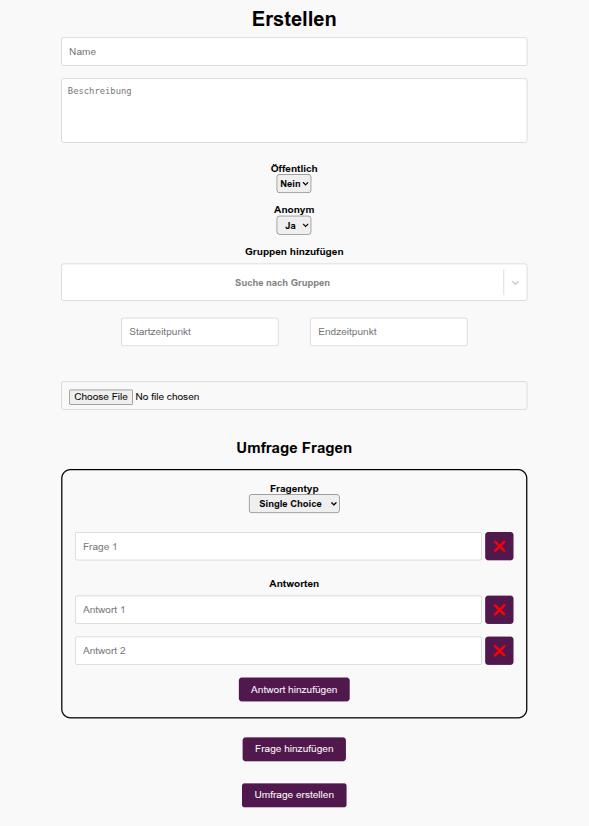
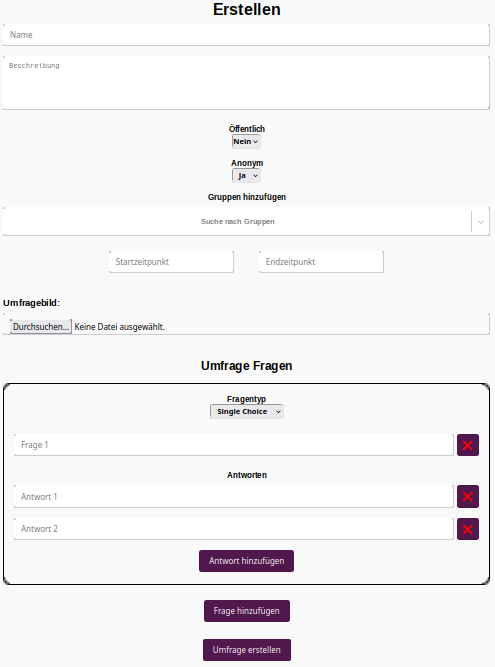
finished rework

diff --git a/latex/main.tex b/latex/main.tex
@@ -892,14 +892,14 @@ Using Sequelize’s transaction mechanism not only helps to avoid data inconsist
 
 \section{Accessibility}
 \subsection{Tooltips}
-To enhance the usability and user experience of the application, tooltips were integrated into all input fields, providing users with contextual guidance and reducing the likelihood of input errors. For this purpose, the React library "react-tooltips" was utilized, offering a high degree of customizability in both design and behavior. This allowed for the implementation of consistent and informative tooltip elements throughout the interface. \parencite{tooltips} \\ \\
-Each from element is assigned a unique \textit{data-tool-id}, which serves as a reference key within the central \texttt{Tooltips.js} configuration file. This file defines the content, styling, and interaction logic for each tooltip, ensuring that the visual presentation and timing behavior are consistent across the application. To prevent the tooltips from becoming distracting during regular use, a delay of 1500 milliseconds was introduced before displaying the tooltip on hover.\\ \\
+To enhance the usability and user experience of the application, tooltips were attached to all input fields, providing users with contextual guidance and reducing the likelihood of input errors. For this purpose, the React library "react-tooltips" was utilized, offering a high degree of customizability in both design and behavior. This allowed for the implementation of consistent and informative tooltip elements throughout the interface. \parencite{tooltips} \\ \\
+Each element is assigned a unique \textit{data-tool-id}, which serves as a reference key within the central \texttt{Tooltips.js} configuration file. This file defines the content, styling, and interaction logic for each tooltip, ensuring that the visual presentation and timing behavior are consistent across the application. To prevent the tooltips from becoming distracting during regular use, a delay of 1500 milliseconds was introduced before displaying the tooltip on hover.\\ \\
 The overall purpose of this component was, to improve the intuitiveness of the application, especially for first-time users or those unfamiliar with specific input requirements. \\ \\
 \section{Styling}
 \subsection{General styling}
-At the beginning of the development process, a rough design was implemented to help visualize the overall concept of the future application. In order to maintain a clean and organized project structure, general styling files such as \texttt{App.css}, \texttt{dashboard.css}, \texttt{voting.css}, and others were placed within a dedicated styles directory.\\\\
+At the beginning of the development process, a rough design was implemented to help visualize the overall concept of the future application. In order to maintain a clean and organized project structure, general styling files such as \texttt{App.css}, capitalized to match the App component, \texttt{dashboard.css}, \texttt{voting.css}, and others were placed within a dedicated styles directory.\\\\
 The official styling of the application was done later in the making process, because only then it was demanded by the customers. The same applies to the color scheme which has two main colors: "Yellow" and "Blackberry". In addition to the existing project structure, custom components such as the header with navigation and the footer were introduced, each of which can be individually styled. These were integrated to establish a layout that conforms to standard design practices.\\\\
-To ensure consistency of the palette user defined characteristics from CSS where used to assign variables for each main color. \parencite{csscolorvariables}
+To ensure consistency of the palette, user defined characteristics from CSS were used to assign variables for each main color. \parencite{csscolorvariables}
 \begin{figure}[h!]
 	\begin{csscode}
 		:root {
@@ -911,11 +911,11 @@ To ensure consistency of the palette user defined characteristics from CSS where
 	\caption{Variables of the main colors}
 	\label{fig:user_defined_characteristics}
 \end{figure}
-Those variables where then used in each element of where it was needed. Therefore changing the color scheme to a different one is less afford for the end user. \\ \\
-The basic structure of the page is split into three sections: header with navigation, main with content and footer with imprint and privacy policy. The style is based on the client's homepage therefore the standard background is purple but the contents background it still is white to ensure readability. \parencite{lmppage} \\
+Those variables were then used in the appropriate element. Therefore changing the color scheme to a different one is less afford for the developers or maintainers. \\ \\
+The basic structure of the page is split into three sections: header with navigation, main with content and footer with imprint and privacy policy. The default style is based on the client's corporate design. Therefore, the standard background is purple but the content background is still white to ensure readability. \parencite{lmppage} \\
 \subsection{Responsive design}
 Responsive design is essential nowadays because users access websites from a wide variety of devices - phones, tablets, laptops and desktops - each with different screen sizes and resolutions. It ensures a seamless, user-friendly experience across all platforms, which improve engagement and accessibility.\\ \\
-To ensure responsiveness in each section of the application, \textbf{@media CSS at-rule} was used to apply different styles based on the screen size or device characteristics. This approach allows the layout, font sizes and element spacing to adapt dynamically, creating a smoother experience for users on any device. The navigation bar was designed with media queries to transform into so-called "burger menu" when the screen width falls below a certain threshold. This ensures usability on smaller devices like smartphones because the elements within the navigation get displayed in the menu now.
+To ensure responsiveness in each section of the application, \textbf{@media CSS at-rule} was used to apply different styles based on the screen size or device characteristics. This approach allows the layout, font sizes and element spacing to adapt dynamically, creating a smoother experience for users on any device. The navigation bar was designed with media queries to transform into so-called "burger menu" when the screen width falls below a certain threshold. This ensures usability on smaller screens.
 \begin{figure}[h!]
 	\centering
 	\includegraphics[width=1\textwidth]{pics/navigation.png}
@@ -923,7 +923,7 @@ To ensure responsiveness in each section of the application, \textbf{@media CSS 
 	\label{fig:navigation}
 \end{figure}
 \subsection{Individual styling}
-Some areas of the web application required additional styling efforts beyond the general layout to enhance usability, visual clarity and the overall aesthetic appearance. These areas were identified based on both internal testing and feedback from the client and were adapted to meet specific functional and visual needs.
+Some areas of the web application required additional styling efforts beyond the general layout to enhance usability, visual clarity and the overall aesthetic appearance. These areas were identified based on both internal testing and feedback from the client and were customized to meet specific functional and visual needs.
 \paragraph{The Register Page} is a dedicated interface accessible exclusively to administrators. As seen in Figure \ref{fig:register_view}, the registration form is designed for clarity and ease of use. It features all necessary input fields to create a new user, alongside a dropdown for role selection. The description of the role is dynamically shown directly below depending on the selection, providing transparency about the permissions and purpose of each role. Styling is handled in a separate \texttt{register.css} stylesheet for modularity and maintainability.\\\\ 
 \begin{figure}[H]
 	\centering
@@ -940,6 +940,7 @@ The second section is dedicated to composing the poll questions. Each question b
 	\caption{Poll creation form}
 	\label{fig:create_view}
 \end{figure}
+
 \paragraph{Voting} is the section where users can submit their votes on polls they have permission to participate in. As shown in Figure \ref{fig:voting_view}, the selected poll's name is displayed below the section's heading and the poll selection dropdown, highlighted using the site's primary color. Each question is presented in a separate block, labeled with the question type in the top right corner. Within each block, the question title is emphasized and all answer options are listed along with radio boxes for \texttt{Single Choice} and \texttt{Weighted Choice} questions, and check boxes for \texttt{Multiple Choice} questions. \texttt{Weighted Choice} questions also include an importance scale, which consists of multiple buttons that users must interact with to assign an importance value to their answer.
 \begin{figure}[H]
 	\centering
@@ -955,7 +956,7 @@ The second section is dedicated to composing the poll questions. Each question b
 	\caption{Results view}
 	\label{fig:results_view}
 \end{figure}
-\paragraph{The Pollimage} enables users to create surveys with a title picture. It was styled to maintain visual harmony and responsiveness across Create, Voting, and Results views. The image container uses a flexbox layout to center the image horizontally, ensuring it looks balanced on all screen sizes. The image itself is limited to a maximum width of 90 percent of its container and a maximum height of 300 pixel to prevent oversized images from disrupting the layout. To preserve the original aspect ratio and avoid distortion, the \textit{object-fit: contain} property is applied. \parencite{cssobjectfit} \\ \\
+\paragraph{The Poll Image} enables users to create surveys with a title picture. It was styled to maintain visual harmony and responsiveness across Create, Voting, and Results views. The image container uses a flexbox layout to center the image horizontally, ensuring it looks balanced on all screen sizes. The image itself is limited to a maximum width of 90 percent of its container and a maximum height of 300 pixel to prevent oversized images from disrupting the layout. To preserve the original aspect ratio and avoid distortion, the \textit{object-fit: contain} property is applied. \parencite{cssobjectfit} \\ \\
 
 \section{Deployment}
 This project was deployed to test how it behaves in a live environment and to ensure that the setup can be easily replicated on other systems. The deployment also helped to verify that all components work together correctly outside of the development environment. \\
